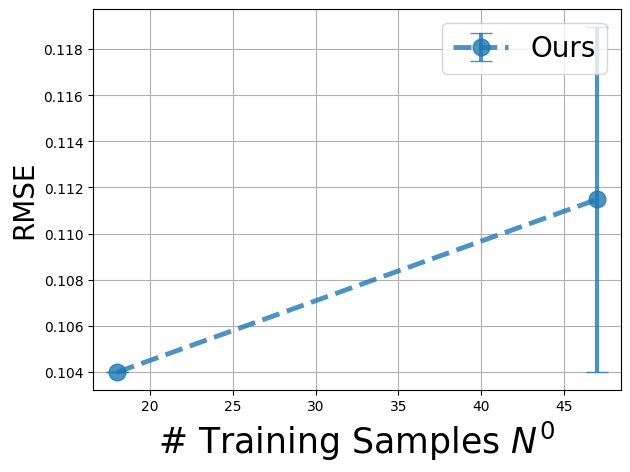
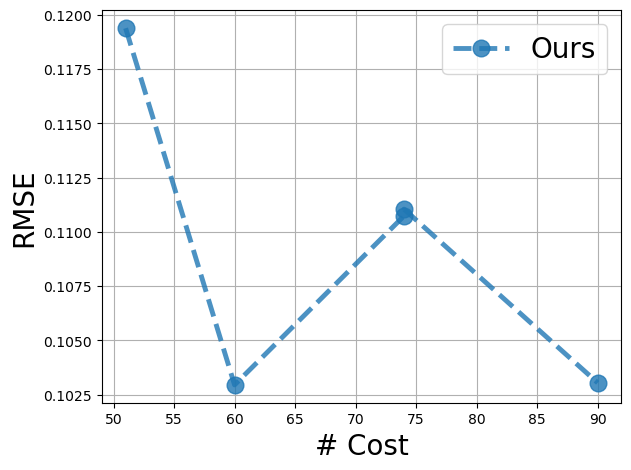
non subset and cost fix

Changed region(s): [[0.0, 0.0, 0.9952, 0.983], [0.8444, 0.566, 0.9048, 0.6255], [0.8444, 0.2383, 0.9048, 0.2681]]

diff --git a/Experiments/CAR_Cost/exp_car.py b/Experiments/CAR_Cost/exp_car.py
@@ -13,7 +13,7 @@ from Experiments.calculate_metrix import calculate_metrix
 import torch
 
 
-seed = list(range(3))
+# seed = list(range(3))
 fidelity_num = 2
 
 def get_cost(ones_num_list):
@@ -26,58 +26,62 @@ def get_cost(ones_num_list):
 
 for _data_name in ['sample_data']:
         train_sample_num = 64
-        recording = {'cost':[], 'rmse':[], 'r2':[], 'nll':[], 'nrmse':[], 'time':[]}
-        for _seed in [0,1]:
-            random.seed(_seed)
-            sample_num = torch.randint(0, 64, size=(1,))
-            x_all = torch.rand(500, 1) * 20
+        for _start_seed in [1]:
+                recording = {'cost':[], 'rmse':[], 'r2':[], 'nll':[], 'nrmse':[], 'time':[]}
+                for _seed in list(range(_start_seed, _start_seed + 5)):
+                        torch.manual_seed(_seed)
+                        sample_num = torch.randint(0, 64, size=(1,))
+                        torch.manual_seed(_seed + 217)
+                        train_sample_num = torch.randint(64, 128, size=(1,))
 
-            xlow_indices = torch.randperm(500)[:train_sample_num]
-            xlow_indices = torch.sort(xlow_indices).values
-            x_low = x_all[xlow_indices]
+                        x_all = torch.rand(500, 1) * 20
 
-            xhigh_indices = torch.randperm(500)[:train_sample_num-sample_num]
-            xhigh_indices = torch.sort(xhigh_indices).values
-            x_high1 = x_all[xhigh_indices]
+                        xlow_indices = torch.randperm(500)[:train_sample_num]
+                        xlow_indices = torch.sort(xlow_indices).values
+                        x_low = x_all[xlow_indices]
 
-            y_low = torch.sin(x_low) - torch.rand(train_sample_num, 1) * 0.2 
-            y_high1 = torch.sin(x_high1) - torch.rand(train_sample_num-sample_num, 1) * 0.1
+                        xhigh_indices = torch.randperm(500)[:train_sample_num-sample_num]
+                        xhigh_indices = torch.sort(xhigh_indices).values
+                        x_high1 = x_all[xhigh_indices]
 
-            x_test = torch.linspace(0, 20, 100).reshape(-1, 1)
-            y_test = torch.sin(x_test)
+                        y_low = torch.sin(x_low) - torch.rand(train_sample_num, 1) * 0.2 
+                        y_high1 = torch.sin(x_high1) - torch.rand(train_sample_num-sample_num, 1) * 0.1
 
-            T1 = time.time()
+                        x_test = torch.linspace(0, 20, 100).reshape(-1, 1)
+                        y_test = torch.sin(x_test)
 
-            initial_data = [
-                                {'fidelity_indicator': 0,'raw_fidelity_name': '0', 'X': x_low, 'Y': y_low},
-                                {'fidelity_indicator': 1, 'raw_fidelity_name': '1','X': x_high1, 'Y': y_high1},
-                            ]
+                        T1 = time.time()
 
-            fidelity_manager = MultiFidelityDataManager(initial_data)
-            fidelity_num = 2
-            kernel_list = [kernel.ARDKernel(x_low.shape[1]) for _ in range(fidelity_num)]
-            CAR = ContinuousAutoRegression(fidelity_num=fidelity_num, kernel_list=kernel_list, b_init=1.0)
+                        initial_data = [
+                                                {'fidelity_indicator': 0,'raw_fidelity_name': '0', 'X': x_low, 'Y': y_low},
+                                                {'fidelity_indicator': 1, 'raw_fidelity_name': '1','X': x_high1, 'Y': y_high1},
+                                        ]
 
-            train_CAR(CAR,fidelity_manager, max_iter=100, lr_init=1e-2)
+                        fidelity_manager = MultiFidelityDataManager(initial_data)
+                        fidelity_num = 2
+                        kernel_list = [kernel.ARDKernel(x_low.shape[1]) for _ in range(fidelity_num)]
+                        CAR = ContinuousAutoRegression(fidelity_num=fidelity_num, kernel_list=kernel_list, b_init=1.0)
 
-            with torch.no_grad():
-                ypred, ypred_var = CAR(fidelity_manager,x_test)
-                
-            metrics = calculate_metrix(y_test = y_test, y_mean_pre = ypred.reshape(-1, 1), y_var_pre = ypred_var)
+                        train_CAR(CAR,fidelity_manager, max_iter=100, lr_init=1e-2)
 
-            T2 = time.time()
-            recording['cost'].append(int(train_sample_num-sample_num))
-            recording['rmse'].append(metrics['rmse'])
-            recording['nrmse'].append(metrics['nrmse'])
-            recording['r2'].append(metrics['r2'])
-            recording['nll'].append(metrics['nll'])
-            recording['time'].append(T2 - T1)
+                        with torch.no_grad():
+                                ypred, ypred_var = CAR(fidelity_manager,x_test)
+                                
+                        metrics = calculate_metrix(y_test = y_test, y_mean_pre = ypred.reshape(-1, 1), y_var_pre = ypred_var)
 
-            path_csv = os.path.join('Experiments', 'CAR_Cost', 'exp_results', str(_data_name))
-            if not os.path.exists(path_csv):
-                    os.makedirs(path_csv)
+                        T2 = time.time()
+                        recording['cost'].append(int(train_sample_num-sample_num))
+                        recording['rmse'].append(metrics['rmse'])
+                        recording['nrmse'].append(metrics['nrmse'])
+                        recording['r2'].append(metrics['r2'])
+                        recording['nll'].append(metrics['nll'])
+                        recording['time'].append(T2 - T1)
 
-            record = pd.DataFrame(recording)
-            record.to_csv(path_csv + '/car_seed_' + str(_seed) + '.csv', index = False) # 将数据写入
+                path_csv = os.path.join('Experiments', 'CAR_Cost', 'exp_results', str(_data_name))
+                if not os.path.exists(path_csv):
+                        os.makedirs(path_csv)
+
+                record = pd.DataFrame(recording)
+                record.to_csv(path_csv + '/car_seed_' + str(_start_seed) + '.csv', index = False) # 将数据写入
 
             

diff --git a/Experiments/CAR_Cost/pic_cost.py b/Experiments/CAR_Cost/pic_cost.py
@@ -14,28 +14,23 @@ Dic = {'ar': ['#ff7f0e', "o", "solid", "AR"],
         }
 
 data_name = 'sample_data'
-dec_rate = 0.75
 methods_name_list = ['car']
+start_seed = 21
+# cost实验一般不需要跑好几个seed取平均值 因为已经很随机了
 
 for methods_name in methods_name_list:
     ct = []
     tem = []
-    for seed in [0, 1]:
-        # path = os.path.join(sys.path[0], 'exp_results', data_name, methods_name + '_' + str(dec_rate)  + '_seed_' + str(seed) + '.csv')
-        path = os.path.join(sys.path[0], 'exp_results', data_name, methods_name + '_seed_' + str(seed) + '.csv')
-        data = pd.DataFrame(pd.read_csv(path))
-        orders = data['cost'].to_numpy().reshape(-1, 1).flatten()
-        rmse = data['rmse'].to_numpy().reshape(-1, 1)
-        tem.append(rmse)
+    path = os.path.join(sys.path[0], 'exp_results', data_name, methods_name + '_seed_' + str(start_seed) + '.csv')
+    data = pd.DataFrame(pd.read_csv(path))
+    sorted_data = data.sort_values(by='cost', ascending=True)
+    orders = sorted_data['cost'].to_numpy().reshape(-1, 1).flatten()
+    rmse = sorted_data['rmse'].to_numpy().reshape(-1, 1)
+    tem.append(rmse)
 
-    tem = np.array(tem)
-    mean = np.mean(tem, axis=0).flatten()
-    var = np.std(tem, axis=0).flatten()
-    plt.errorbar(orders, mean, yerr = var, ls = Dic[methods_name][2], linewidth=3.5, color=Dic[methods_name][0],
-                label=Dic[methods_name][-1], marker=Dic[methods_name][1], fillstyle='full',
-                elinewidth = 3 ,capsize = 8, markersize = 12, alpha = 0.8)
+    plt.plot(orders, rmse, ls = Dic[methods_name][2], linewidth=3.5, color=Dic[methods_name][0], label=Dic[methods_name][-1], marker=Dic[methods_name][1], markersize = 12, alpha = 0.8)
 
-    plt.xlabel("# Training Samples $N^{0}$", fontsize=25)
+    plt.xlabel("# Cost", fontsize=20)
     plt.ylabel("RMSE", fontsize = 20)
 
 

diff --git a/Experiments/CAR_Non_Subset/pic_non_subset.py b/Experiments/CAR_Non_Subset/pic_non_subset.py
@@ -10,17 +10,18 @@ Dic = {'ar': ['#ff7f0e', "o", "solid", "AR"],
        'resgp': ['#8c564b', "o", "solid", "ResGP"],
        'dmfal': ['#2ca02c', "o", "solid", "MF-BNN"],
        'gar': ['#DC143C', "o", "dashed", "GAR"],
-       'cigar': ['#1f77b4', "o", "dashed", "CIGAR"],
+       'car': ['#1f77b4', "o", "dashed", "Ours"],
         }
 
 data_name = 'sample_data'
-methods_name_list = ['ar']
+dec_rate = 0.75
+methods_name_list = ['car']
 
 for methods_name in methods_name_list:
     ct = []
     tem = []
     for seed in [0, 1]:
-        path = os.path.join(sys.path[0], 'exp_results', data_name, methods_name + '_seed_' + str(seed) + '.csv')
+        path = os.path.join(sys.path[0], 'exp_results', data_name, methods_name + '_' + str(dec_rate)  + '_seed_' + str(seed) + '.csv')
         data = pd.DataFrame(pd.read_csv(path))
         orders = data['train_sample_num'].to_numpy().reshape(-1, 1).flatten()
         rmse = data['rmse'].to_numpy().reshape(-1, 1)
@@ -33,7 +34,7 @@ for methods_name in methods_name_list:
                 label=Dic[methods_name][-1], marker=Dic[methods_name][1], fillstyle='full',
                 elinewidth = 3 ,capsize = 8, markersize = 12, alpha = 0.8)
 
-    plt.xlabel("#HF Samples", fontsize=20)
+    plt.xlabel("# Training Samples $N^{0}$", fontsize=25)
     plt.ylabel("RMSE", fontsize = 20)
 
 
@@ -41,6 +42,8 @@ plt.legend(loc="upper right", fontsize=20)
 plt.grid()
 
 plt.tight_layout()
-fig_file = os.path.join(sys.path[0], 'pics') + '/' + data_name + '.png'
-plt.savefig(fig_file,
+fig_file = os.path.join(sys.path[0], 'pics')
+if not os.path.exists(fig_file):
+        os.makedirs(fig_file)
+plt.savefig(fig_file  + '/' + data_name + '.png',
             bbox_inches='tight')

diff --git a/FidelityFusion_Models/__init__.py b/FidelityFusion_Models/__init__.py
@@ -1,8 +1,17 @@
-from AR_autoRegression import autoRegression, train_AR
-from CIGAR import CIGAR, train_CIGAR
-from CAR_ContinuousAutoRegression import ContinuousAutoRegression, train_CAR
+# from AR_autoRegression import autoRegression, train_AR
+# from CIGAR import CIGAR, train_CIGAR
+# from CAR_ContinuousAutoRegression import ContinuousAutoRegression, train_CAR
+# # from CAR_ContinuousAutoRegression_Large import ContinuousAutoRegression, train_CAR
+# from GAR import GAR, train_GAR
+# from MF_data import MultiFidelityDataManager
+# from NAR import NAR, train_NAR
+# from ResGP import ResGP, train_ResGP
+
+from FidelityFusion_Models.AR_autoRegression import autoRegression, train_AR
+from FidelityFusion_Models.CIGAR import CIGAR, train_CIGAR
+from FidelityFusion_Models.CAR_ContinuousAutoRegression import ContinuousAutoRegression, train_CAR
 # from CAR_ContinuousAutoRegression_Large import ContinuousAutoRegression, train_CAR
-from GAR import GAR, train_GAR
-from MF_data import MultiFidelityDataManager
-from NAR import NAR, train_NAR
-from ResGP import ResGP, train_ResGP
+from FidelityFusion_Models.GAR import GAR, train_GAR
+from FidelityFusion_Models.MF_data import MultiFidelityDataManager
+from FidelityFusion_Models.NAR import NAR, train_NAR
+from FidelityFusion_Models.ResGP import ResGP, train_ResGP

diff --git a/Experiments/CAR_Non_Subset/exp_car.py b/Experiments/CAR_Non_Subset/exp_car.py
@@ -31,9 +31,9 @@ for _data_name in data_name_list:
                 xlow_indices = torch.sort(xlow_indices).values
                 x_low = x_all[xlow_indices]
 
-                xhigh_indices = torch.randperm(train_sample_num)[:int(dec_rate * train_sample_num)]
+                xhigh_indices = torch.randperm(500)[:int(dec_rate * train_sample_num)]
                 xhigh_indices = torch.sort(xhigh_indices).values
-                x_high1 = x_low[xhigh_indices]
+                x_high1 = x_all[xhigh_indices]
 
                 y_low = torch.sin(x_low) - torch.rand(train_sample_num, 1) * 0.2 
                 y_high1 = torch.sin(x_high1) - torch.rand(int(dec_rate * train_sample_num), 1) * 0.1
@@ -68,7 +68,7 @@ for _data_name in data_name_list:
                 recording['nll'].append(metrics['nll'])
                 recording['time'].append(T2 - T1)
 
-            path_csv = os.path.join('Experiments', 'CAR_subset', 'exp_results', str(_data_name))
+            path_csv = os.path.join('Experiments', 'CAR_Non_Subset', 'exp_results', str(_data_name))
             if not os.path.exists(path_csv):
                     os.makedirs(path_csv)
 

diff --git a/Experiments/GAR_Aligned/exp_ar.py b/Experiments/GAR_Aligned/exp_ar.py
@@ -44,9 +44,9 @@ if __name__ == '__main__':
                     xlow_indices = torch.sort(xlow_indices).values
                     x_low = x_all[xlow_indices]
 
-                    xhigh_indices = torch.randperm(500)[:_high_fidelity_num]
+                    xhigh_indices = torch.randperm(300)[:_high_fidelity_num]
                     xhigh_indices = torch.sort(xhigh_indices).values
-                    x_high1 = x_all[xhigh_indices]
+                    x_high1 = x_low[xhigh_indices]
 
                     y_low = torch.sin(x_low) - torch.rand(300, 1) * 0.2 
                     y_high1 = torch.sin(x_high1) - torch.rand(_high_fidelity_num, 1) * 0.1

diff --git a/Experiments/GAR_Aligned/exp_nar.py b/Experiments/GAR_Aligned/exp_nar.py
@@ -44,9 +44,9 @@ if __name__ == '__main__':
                     xlow_indices = torch.sort(xlow_indices).values
                     x_low = x_all[xlow_indices]
 
-                    xhigh_indices = torch.randperm(500)[:_high_fidelity_num]
+                    xhigh_indices = torch.randperm(300)[:_high_fidelity_num]
                     xhigh_indices = torch.sort(xhigh_indices).values
-                    x_high1 = x_all[xhigh_indices]
+                    x_high1 = x_low[xhigh_indices]
 
                     y_low = torch.sin(x_low) - torch.rand(300, 1) * 0.2 
                     y_high1 = torch.sin(x_high1) - torch.rand(_high_fidelity_num, 1) * 0.1

diff --git a/Experiments/GAR_Non_Aligned/exp_ar.py b/Experiments/GAR_Non_Aligned/exp_ar.py
@@ -44,9 +44,9 @@ if __name__ == '__main__':
                     xlow_indices = torch.sort(xlow_indices).values
                     x_low = x_all[xlow_indices]
 
-                    xhigh_indices = torch.randperm(500)[:_high_fidelity_num]
+                    xhigh_indices = torch.randperm(300)[:_high_fidelity_num]
                     xhigh_indices = torch.sort(xhigh_indices).values
-                    x_high1 = x_all[xhigh_indices]
+                    x_high1 = x_low[xhigh_indices]
 
                     y_low = torch.sin(x_low) - torch.rand(300, 1) * 0.2 
                     y_high1 = torch.sin(x_high1) - torch.rand(_high_fidelity_num, 1) * 0.1

diff --git a/Experiments/GAR_Non_Aligned/exp_gar.py b/Experiments/GAR_Non_Aligned/exp_gar.py
@@ -43,9 +43,9 @@ if __name__ == '__main__':
                     xlow_indices = torch.sort(xlow_indices).values
                     x_low = x_all[xlow_indices]
 
-                    xhigh_indices = torch.randperm(500)[:_high_fidelity_num]
+                    xhigh_indices = torch.randperm(300)[:_high_fidelity_num]
                     xhigh_indices = torch.sort(xhigh_indices).values
-                    x_high1 = x_all[xhigh_indices]
+                    x_high1 = x_low[xhigh_indices]
 
                     y_low = torch.sin(x_low) - torch.rand(300, 1) * 0.2 
                     y_high1 = torch.sin(x_high1) - torch.rand(_high_fidelity_num, 1) * 0.1

diff --git a/Experiments/GAR_Non_Aligned/exp_nar.py b/Experiments/GAR_Non_Aligned/exp_nar.py
@@ -44,9 +44,9 @@ if __name__ == '__main__':
                     xlow_indices = torch.sort(xlow_indices).values
                     x_low = x_all[xlow_indices]
 
-                    xhigh_indices = torch.randperm(500)[:_high_fidelity_num]
+                    xhigh_indices = torch.randperm(300)[:_high_fidelity_num]
                     xhigh_indices = torch.sort(xhigh_indices).values
-                    x_high1 = x_all[xhigh_indices]
+                    x_high1 = x_low[xhigh_indices]
 
                     y_low = torch.sin(x_low) - torch.rand(300, 1) * 0.2 
                     y_high1 = torch.sin(x_high1) - torch.rand(_high_fidelity_num, 1) * 0.1

diff --git a/Experiments/GAR_Aligned/pic_aligned_data.py b/Experiments/GAR_Aligned/pic_aligned_data.py
@@ -14,7 +14,7 @@ Dic = {'ar': ['#ff7f0e', "o", "solid", "AR"],
         }
 
 data_name = 'sample_data'
-methods_name_list = ['nar']
+methods_name_list = ['nar', 'ar']
 
 for methods_name in methods_name_list:
     ct = []
